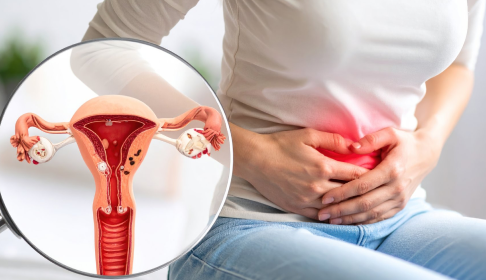
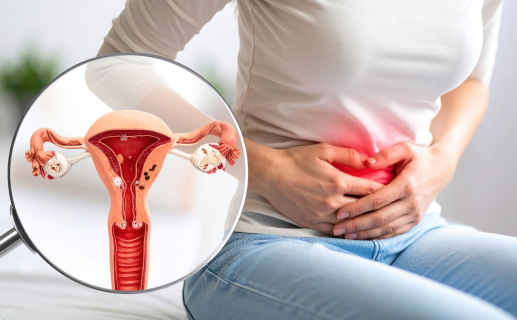
추가: 골반정맥류 페이지

diff --git a/src/app/_components/clinic/treatments/detail.tsx b/src/app/_components/clinic/treatments/detail.tsx
@@ -1,9 +1,9 @@
-import Image from 'next/image';
 import type {
   TreatmentDetailSection as DetailSection,
   TreatmentDisplayMode,
   TreatmentMethod,
 } from '@/app/_types/vascular/treatment-method';
+import Image from 'next/image';
 import TreatmentDetailSection from './detail-section';
 
 type TreatmentDetailProps = {
@@ -62,18 +62,34 @@ export default function TreatmentDetail({
         />
       </div>
 
-      <div className={`mt-5 break-keep
-        xl:row-start-1 xl:col-span-2`}>
-        <span className={`font-bold text-[12px] text-disabled ${isStandalone ? 'uppercase' : ''}
-          xl:text-[16px]`}>{method.englishTitle}</span>
-        <h3 className={`font-bold text-[26px] text-gray-900
-          xl:font-bold xl:text-[40px] xl:text-primary`}>{method.title}</h3>
-        <p className={`mt-5 text-[15px] text-gray-900
-          xl:text-pc-body-1 xl:text-primary`}>{method.description}</p>
+      <div
+        className={`mt-5 break-keep
+        xl:row-start-1 xl:col-span-2`}
+      >
+        <span
+          className={`font-bold text-[12px] text-disabled ${isStandalone ? 'uppercase' : ''}
+          xl:text-[16px]`}
+        >
+          {method.englishTitle}
+        </span>
+        <h3
+          className={`font-bold text-[26px] text-gray-900
+          xl:font-bold xl:text-[40px] xl:text-primary`}
+        >
+          {method.title}
+        </h3>
+        <p
+          className={`mt-3 text-[15px] text-gray-900
+          xl:text-pc-body-1 xl:text-primary`}
+        >
+          {method.description}
+        </p>
       </div>
 
-      <div className={`mt-7 space-y-7
-        xl:mt-3 xl:space-y-10`}>
+      <div
+        className={`mt-7 space-y-7
+        xl:mt-3 xl:space-y-10`}
+      >
         {sections.map((section) => (
           <TreatmentDetailSection
             key={section.id}

diff --git a/src/app/_components/clinic/treatments/section.tsx b/src/app/_components/clinic/treatments/section.tsx
@@ -32,22 +32,28 @@ type ClinicTreatmentsProps = {
 
 /** 치료법 섹션의 반응형 제목·선택 방식·상세정보 공통 조립. */
 export default function ClinicTreatments(props: ClinicTreatmentsProps) {
-  const { id, title, description, additionalTreatments, className = '' } = props;
+  const {
+    id,
+    title,
+    description,
+    additionalTreatments,
+    className = '',
+  } = props;
 
   return (
     <section id={id} className={`${className}`}>
       <div className={`mt-15 pb-15 bg-[#F2F2F2]`}>
         <Inner>
           <SectionHeading
-            mtVariant="lg"
+            mtVariant="base"
             label="Treatment · 치료법"
             labelVariant="disabled"
             title={title}
           />
           {description && (
             <p
-              className={`mt-5 break-keep text-mo-body-1 text-secondary
-                xl:mx-auto xl:text-pc-body-1 xl:text-center xl:text-primary`}
+              className={`mt-5 break-keep text-mo-body-1 text-center text-secondary
+                xl:mx-auto xl:text-pc-body-1 xl:text-primary`}
             >
               {description}
             </p>
@@ -55,7 +61,11 @@ export default function ClinicTreatments(props: ClinicTreatmentsProps) {
           {props.mode === 'standalone' ? (
             <TreatmentDetail id={id} method={props.method} mode="standalone" />
           ) : (
-            <TreatmentSelector id={id} ariaLabel={props.ariaLabel} methods={props.methods} />
+            <TreatmentSelector
+              id={id}
+              ariaLabel={props.ariaLabel}
+              methods={props.methods}
+            />
           )}
           {additionalTreatments && additionalTreatments.items.length > 0 && (
             <TreatmentAdditional

diff --git a/src/app/_ui/vascular/venous/pelvic/related/carousel.tsx b/src/app/_ui/vascular/venous/pelvic/related/carousel.tsx
@@ -51,7 +51,7 @@ export default function PelvicRelatedCarousel({
     >
       <Swiper
         className={`w-full [&_.swiper-wrapper]:items-stretch`}
-        slidesPerView={1.5}
+        slidesPerView={1.3}
         spaceBetween={8}
         centeredSlides
         loop
@@ -76,7 +76,7 @@ export default function PelvicRelatedCarousel({
           <SwiperSlide
             key={key}
             className={`h-auto! flex! flex-col transition-opacity duration-300
-              xl:[&:not(.swiper-slide-active)]:opacity-30`}
+              [&:not(.swiper-slide-active)]:opacity-30`}
           >
             {({ isActive }) => (
               <PelvicRelatedSlideContent
@@ -93,7 +93,10 @@ export default function PelvicRelatedCarousel({
       <CarouselControls
         id={`${id}-controls`}
         variant="compact"
-        items={items.map((item) => ({ id: item.id, ariaLabel: `${item.title} 보기` }))}
+        items={items.map((item) => ({
+          id: item.id,
+          ariaLabel: `${item.title} 보기`,
+        }))}
         activeIndex={activeIndex}
         previousAriaLabel="이전 연관 질환"
         nextAriaLabel="다음 연관 질환"

diff --git a/src/app/_components/clinic/symptom-carousel/item.tsx b/src/app/_components/clinic/symptom-carousel/item.tsx
@@ -72,7 +72,7 @@ export default function SymptomCarouselItemView({
       {/* 증상 */}
       <ul
         className="mt-5 px-6 space-y-2
-        xl:col-start-2 xl:row-start-2 xl:mt-10 xl:px-0 xl:flex xl:flex-wrap xl:gap-3 xl:space-y-0"
+        xl:col-start-2 xl:row-start-2 xl:mt-10 xl:px-0 xl:flex xl:flex-wrap xl:content-start xl:gap-3 xl:space-y-0"
       >
         {item.symptoms.map((symptom) => (
           <li key={symptom} className="flex items-center gap-1">
@@ -111,13 +111,16 @@ export default function SymptomCarouselItemView({
           <div className="flex-1 h-px bg-accent" />
         </div>
         <p
-          className="mt-3 text-[18px]
+          className="mt-3 break-keep text-[18px]
           xl:text-[26px]"
         >
           {item.caution ? (
             <>
               {item.caution.lead}
-              <br />
+              <br
+                className="hidden
+                xl:block"
+              />
               <strong>{item.caution.emphasis}</strong>
               {item.caution.tail}
             </>

diff --git a/src/app/_ui/vascular/venous/pelvic/comparison/pain-pattern.tsx b/src/app/_ui/vascular/venous/pelvic/comparison/pain-pattern.tsx
@@ -13,9 +13,16 @@ type PelvicPainPatternProps = {
 };
 
 /** 골반정맥류 비교 섹션에만 필요한 통증 변화 예시입니다. */
-export default function PelvicPainPattern({ id, content }: PelvicPainPatternProps) {
+export default function PelvicPainPattern({
+  id,
+  content,
+}: PelvicPainPatternProps) {
   return (
-    <figure id={id} className="-mx-2 mt-10 xl:mx-0 xl:mt-11">
+    <figure
+      id={id}
+      className="mt-15 rounded-lg overflow-clip
+      xl:mt-10 xl:rounded-[20px]"
+    >
       <Image
         src={content.image}
         alt={content.imageAlt}
@@ -25,8 +32,8 @@ export default function PelvicPainPattern({ id, content }: PelvicPainPatternProp
         className="w-full h-auto"
       />
       <figcaption
-        className="mt-5 px-2 break-keep text-[17px] leading-[160%] text-center text-[#294968]
-        xl:mt-15 xl:text-[24px]"
+        className="mt-5 text-center text-mo-heading-2 text-[#324E6D]
+        xl:mt-15 xl:text-pc-heading-1"
       >
         {content.caption}
         <br />

diff --git a/src/app/_components/clinic/media-faq/item.tsx b/src/app/_components/clinic/media-faq/item.tsx
@@ -5,11 +5,7 @@ import Image from 'next/image';
 type Props = { id: string; item: FaqItem; avatar?: string | null };
 
 /** 기존 입퇴원안내 FAQ와 같은 native details/summary 패턴. */
-export default function ClinicMediaFaqItem({
-  id,
-  item,
-  avatar,
-}: Props) {
+export default function ClinicMediaFaqItem({ id, item, avatar }: Props) {
   return (
     <li id={id}>
       <details className="group border-b border-default xl:border xl:rounded-[20px]">
@@ -24,7 +20,7 @@ export default function ClinicMediaFaqItem({
                 className="size-7.5 object-cover shrink-0 rounded-full"
               />
             )}
-            <span className="relative top-1">{item.question}</span>
+            <span>{item.question}</span>
           </div>
           <ChevronDown
             aria-hidden="true"

diff --git a/src/app/(site)/vascular/venous/varicose/page.tsx b/src/app/(site)/vascular/venous/varicose/page.tsx
@@ -31,7 +31,11 @@ export default function VascularVenousVaricosePage() {
   return (
     <>
       <Breadcrumb />
-      <PageHeader title="하지정맥류" />
+      <PageHeader
+        title="하지정맥류"
+        englishTitle="Varicose Veins"
+        desc="심장으로 올라가야 할 혈액이 다리에 고이는 만성 정맥질환으로 겉으로 드러나지 않아도 다양한 증상이 나타날 수 있습니다."
+      />
 
       {/* 공통 - 증상 */}
       <ClinicSymptoms

diff --git a/src/app/_data/vascular/venous/pelvic/comparison/content.ts b/src/app/_data/vascular/venous/pelvic/comparison/content.ts
@@ -1,7 +1,7 @@
 export const pelvicComparisonHeading = {
   label: '언제 어떻게 아픈지가 중요 단서',
-  titleEmphasis: '단순 생리통',
-  titleSuffix: '과는 이렇게 다릅니다',
+  titleEmphasis: '단순 생리통과는',
+  titleSuffix: '이렇게 다릅니다',
 } as const;
 
 /** 시안에서 추출한 예시 이미지이며 원본 디자인 에셋으로 교체할 수 있습니다. */

diff --git a/src/app/_ui/vascular/venous/pelvic/related/card.tsx b/src/app/_ui/vascular/venous/pelvic/related/card.tsx
@@ -14,7 +14,7 @@ export default function PelvicRelatedCard({
   return (
     <article
       id={id}
-      className={`mt-6 p-6 flex flex-1 flex-col rounded-xl border border-brand
+      className={`flex-1 mt-6 p-6 flex flex-col rounded-xl border border-brand
       xl:px-10 xl:py-8`}
     >
       <div className={`flex justify-between items-center`}>

diff --git a/src/app/_data/site/navigation.ts b/src/app/_data/site/navigation.ts
@@ -89,7 +89,7 @@ export const NAVIGATION: NavigationItem[] = [
             id: 'vascular-venous-pelvic',
             href: '/vascular/venous/pelvic',
             title: '골반정맥류',
-            isPublished: false,
+            isPublished: true,
           },
           {
             id: 'vascular-venous-varicocele',

diff --git a/src/app/_ui/vascular/venous/pelvic/related/slide-content.tsx b/src/app/_ui/vascular/venous/pelvic/related/slide-content.tsx
@@ -63,7 +63,10 @@ export default function PelvicRelatedSlideContent({
       </div>
 
       {/* 질환 설명 카드 */}
-      <div className={`xl:px-5`}>
+      <div
+        className={`flex-1 flex flex-col
+          xl:px-5`}
+      >
         <PelvicRelatedCard id={cardId} disease={disease} />
       </div>
     </>
